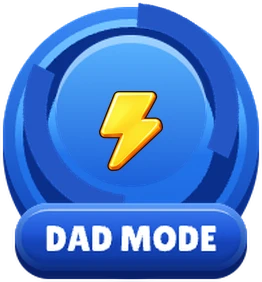
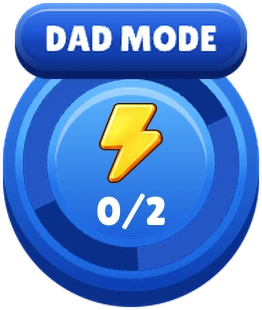
Story dock: buzzer placeholder laid out like the game (tag on top, 0/2 count)

diff --git a/docs/index.html b/docs/index.html
@@ -20,7 +20,7 @@
     <link rel="apple-touch-icon" href="/apple-touch-icon.png" />
     <link rel="preload" as="image" href="/assets/fr/px/beach_back.webp" media="(max-width: 820px)" />
     <link rel="preload" as="image" href="/assets/fr/px/beach_set_wide.webp" media="(min-width: 821px)" />
-    <link rel="stylesheet" href="/styles.css?v=10311451" />
+    <link rel="stylesheet" href="/styles.css?v=10311459" />
     <script>document.documentElement.classList.add("js")</script>
   </head>
   <body>
@@ -190,7 +190,7 @@
 
     <script src="https://cdnjs.cloudflare.com/ajax/libs/gsap/3.12.5/gsap.min.js" defer></script>
     <script src="https://cdnjs.cloudflare.com/ajax/libs/gsap/3.12.5/ScrollTrigger.min.js" defer></script>
-    <script src="/story-sim.js?v=10311451" defer></script>
-    <script src="/story.js?v=10311451" defer></script>
+    <script src="/story-sim.js?v=10311459" defer></script>
+    <script src="/story.js?v=10311459" defer></script>
   </body>
 </html>

diff --git a/docs/styles.css b/docs/styles.css
@@ -156,7 +156,7 @@ html:not(.anim) .card.later { display: none; }
 /* DAD MODE is the big button of the dock: wider, warm, louder when ready */
 .buzzer { width: 92px; background: linear-gradient(180deg, #fff 0%, #fff1dc 100%); box-shadow: var(--clay-shadow), inset 0 0 0 2px rgba(255,170,60,.35), 0 0 calc(var(--ready) * 26px) calc(var(--ready) * 6px) rgba(255,200,58,.95); }
 /* placeholder: the game's current buzzer in 3 states (0, 1, 2 bolts), redone with the new game HUD */
-.buzz { position: relative; display: block; width: 72px; aspect-ratio: 262 / 282; filter: drop-shadow(0 4px 4px rgba(20,40,110,.25)); }
+.buzz { position: relative; display: block; width: 72px; aspect-ratio: 262 / 310; filter: drop-shadow(0 4px 4px rgba(20,40,110,.25)); }
 .buzz img { position: absolute; inset: 0; width: 100%; height: 100%; }
 .buzz .b1, .buzz .b2 { opacity: 0; visibility: hidden; }
 .buzzer .bolts { display: none; }
